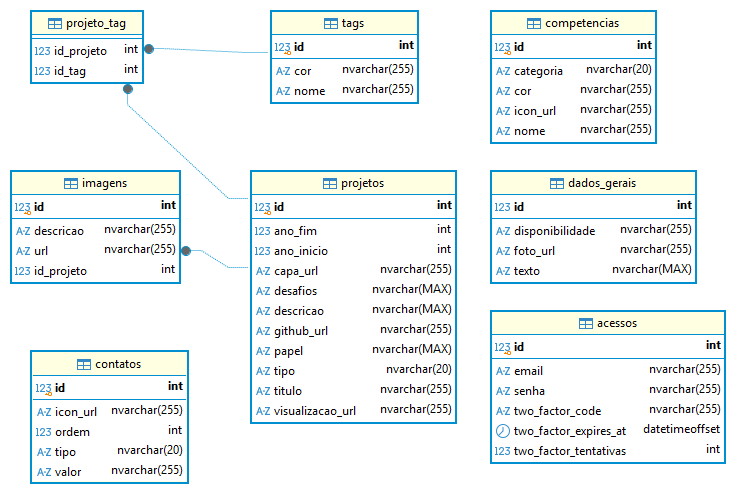
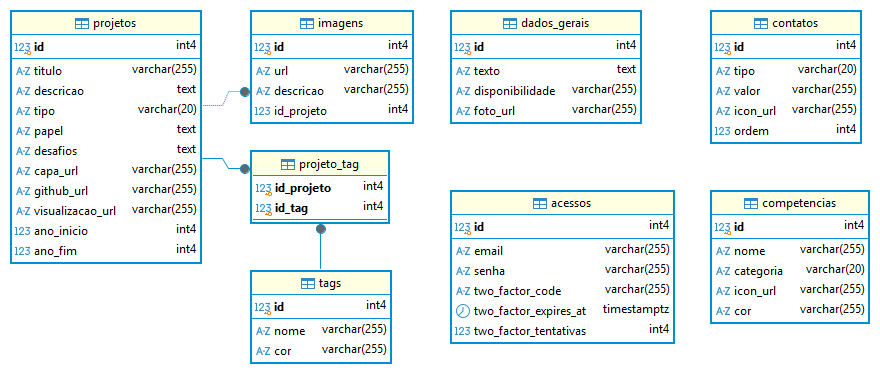
refactor(db): troca SQL Server por PostgreSQL 17
- V1 reescrita em PostgreSQL (antes do 1º deploy; nenhum banco de produção existia)
- tag única sem diferenciar maiúsculas via índice único em lower(nome)
- driver, Flyway e Testcontainers do PostgreSQL; compose com postgres:17 na porta 5433
- entidades com columnDefinition TEXT; READMEs e decisões de projeto atualizados

diff --git a/portfolio-api/src/test/java/dev/gabriel/portfolio_api/TestcontainersConfig.java b/portfolio-api/src/test/java/dev/gabriel/portfolio_api/TestcontainersConfig.java
@@ -3,11 +3,11 @@ package dev.gabriel.portfolio_api;
 import org.springframework.boot.test.context.TestConfiguration;
 import org.springframework.boot.testcontainers.service.connection.ServiceConnection;
 import org.springframework.context.annotation.Bean;
-import org.testcontainers.mssqlserver.MSSQLServerContainer;
+import org.testcontainers.postgresql.PostgreSQLContainer;
 import org.testcontainers.utility.DockerImageName;
 
 /**
- * Sobe um SQL Server descartavel no Docker para os testes.
+ * Sobe um PostgreSQL descartavel no Docker para os testes.
  *
  * - O container e um bean: o Spring o inicia antes da aplicacao e o para no fim.
  * - @ServiceConnection faz o Spring Boot apontar o datasource (url, usuario, senha)
@@ -19,8 +19,7 @@ public class TestcontainersConfig {
 
     @Bean
     @ServiceConnection
-    MSSQLServerContainer sqlServerContainer() {
-        return new MSSQLServerContainer(DockerImageName.parse("mcr.microsoft.com/mssql/server:2022-latest"))
-                .acceptLicense(); // a imagem da Microsoft exige aceitar a licenca (EULA)
+    PostgreSQLContainer postgresContainer() {
+        return new PostgreSQLContainer(DockerImageName.parse("postgres:17"));
     }
 }

diff --git a/portfolio-api/src/test/java/dev/gabriel/portfolio_api/IntegracaoTest.java b/portfolio-api/src/test/java/dev/gabriel/portfolio_api/IntegracaoTest.java
@@ -13,7 +13,7 @@ import dev.gabriel.portfolio_api.services.JwtService;
 
 /**
  * Base dos testes de integracao: aplicacao completa (controllers, services, seguranca, JPA)
- * contra um SQL Server real no Docker.
+ * contra um PostgreSQL real no Docker.
  *
  * - @SpringBootTest: sobe o contexto inteiro do Spring, como em producao.
  * - @AutoConfigureMockMvc: cria o MockMvc, que simula requisicoes HTTP sem abrir porta de rede.
@@ -30,10 +30,7 @@ import dev.gabriel.portfolio_api.services.JwtService;
         "JWT_SECRET=Y2hhdmUtZGUtdGVzdGUtY29tLTMyLWJ5dGVzLW9rISE=",
         // Origens do CORS: o padrao de desenvolvimento + um dominio "de producao" ficticio
         "CORS_ORIGINS=http://localhost:[*]," + IntegracaoTest.ORIGEM_PRODUCAO,
-        "spring.jpa.show-sql=false",
-        // Enquanto o container inicializa, o driver loga dezenas de "Prelogin error" (tentativas de conexao).
-        // Sao esperados e inofensivos; so poluem a saida.
-        "logging.level.com.microsoft.sqlserver.jdbc.internals.SQLServerConnection=ERROR"
+        "spring.jpa.show-sql=false"
 })
 @AutoConfigureMockMvc
 @Import(TestcontainersConfig.class)

diff --git a/portfolio-api/src/test/java/dev/gabriel/portfolio_api/controllers/ProjetoControllerTest.java b/portfolio-api/src/test/java/dev/gabriel/portfolio_api/controllers/ProjetoControllerTest.java
@@ -27,7 +27,7 @@ import dev.gabriel.portfolio_api.repositories.TagRepository;
 
 /**
  * Testes de integracao de /api/projetos: requisicao HTTP simulada -> seguranca -> controller
- * -> service -> SQL Server (container) -> resposta JSON.
+ * -> service -> PostgreSQL (container) -> resposta JSON.
  */
 class ProjetoControllerTest extends IntegracaoTest {
 
@@ -117,7 +117,7 @@ class ProjetoControllerTest extends IntegracaoTest {
                 .andExpect(status().isCreated())
                 .andExpect(header().string("Location", containsString(URL + "/")))
                 .andExpect(jsonPath("$.titulo").value("BeesCaatinga"))
-                .andExpect(jsonPath("$.descricao").value("Gestão de apiários da Caatinga")) // acentos/NVARCHAR
+                .andExpect(jsonPath("$.descricao").value("Gestão de apiários da Caatinga")) // acentos (UTF-8)
                 .andExpect(jsonPath("$.periodo").value("2023 – 2024"))
                 .andExpect(jsonPath("$.tags", hasSize(2)))
                 .andExpect(jsonPath("$.imagens", hasSize(1)))

diff --git a/portfolio-api/src/main/java/dev/gabriel/portfolio_api/entities/DadosGerais.java b/portfolio-api/src/main/java/dev/gabriel/portfolio_api/entities/DadosGerais.java
@@ -11,7 +11,7 @@ import jakarta.persistence.Table;
  *
  * Por que o id e fixo e nao IDENTITY (autoincremento)?
  * - Com IDENTITY, apagar e recriar o registro geraria ID 2, 3...
- * - O SQL Server pode "pular" valores de IDENTITY apos um reinicio.
+ * - O banco pode "pular" valores de IDENTITY (ex.: insercoes que falham consomem o numero).
  * Com o id sempre = 1, atribuido pelo codigo, e a check constraint abaixo,
  * o proprio banco recusa uma segunda linha.
  */
@@ -25,7 +25,7 @@ public class DadosGerais {
     @Id // sem @GeneratedValue: o valor e sempre ID_UNICO (e nao ha setter)
     private int id = ID_UNICO;
 
-    @Column(nullable = false, columnDefinition = "NVARCHAR(MAX)")
+    @Column(nullable = false, columnDefinition = "TEXT")
     private String texto; // texto de apresentacao ("Ola, meu nome e Gabriel...")
 
     private String disponibilidade; // texto do selo, ex.: "Disponivel para contratacao"; vazio = sem selo

diff --git a/portfolio-api/src/test/java/dev/gabriel/portfolio_api/PerfilProducaoTest.java b/portfolio-api/src/test/java/dev/gabriel/portfolio_api/PerfilProducaoTest.java
@@ -30,7 +30,7 @@ import dev.gabriel.portfolio_api.services.JwtService;
  * Testcontainers (@ServiceConnection tem prioridade sobre DB_URL).
  */
 @SpringBootTest(properties = {
-        "DB_URL=jdbc:sqlserver://ignorado-pelo-testcontainers",
+        "DB_URL=jdbc:postgresql://ignorado-pelo-testcontainers/portfolio",
         "DB_USER=ignorado",
         "DB_PASSWORD=ignorado",
         "MAIL_HOST=smtp.exemplo.com",
@@ -40,8 +40,7 @@ import dev.gabriel.portfolio_api.services.JwtService;
         "CORS_ORIGINS=" + PerfilProducaoTest.ORIGEM_DO_FRONT,
         "ADMIN_EMAIL=gabriel@exemplo.com",
         "ADMIN_PASSWORD=senha-de-teste",
-        "JWT_SECRET=Y2hhdmUtZGUtdGVzdGUtY29tLTMyLWJ5dGVzLW9rISE=",
-        "logging.level.com.microsoft.sqlserver.jdbc.internals.SQLServerConnection=ERROR"
+        "JWT_SECRET=Y2hhdmUtZGUtdGVzdGUtY29tLTMyLWJ5dGVzLW9rISE="
 })
 @ActiveProfiles("prod")
 @AutoConfigureMockMvc

diff --git a/portfolio-api/src/main/java/dev/gabriel/portfolio_api/entities/Projeto.java b/portfolio-api/src/main/java/dev/gabriel/portfolio_api/entities/Projeto.java
@@ -27,7 +27,7 @@ public class Projeto {
 	@Column(nullable = false)
 	private String titulo;
 
-	@Column(nullable = false, columnDefinition = "NVARCHAR(MAX)")
+	@Column(nullable = false, columnDefinition = "TEXT")
 	private String descricao;
 
 	// Carrossel em que o projeto aparece (PROFISSIONAL ou ACADEMICO)
@@ -36,10 +36,10 @@ public class Projeto {
 	private TipoProjeto tipo;
 
 	// Para projetos com codigo privado (empresa): descreve sua atuacao no lugar do link do GitHub
-	@Column(columnDefinition = "NVARCHAR(MAX)")
+	@Column(columnDefinition = "TEXT")
 	private String papel;
 
-	@Column(columnDefinition = "NVARCHAR(MAX)")
+	@Column(columnDefinition = "TEXT")
 	private String desafios;
 
 	@Column(name = "capa_url")

diff --git a/portfolio-api/src/main/java/dev/gabriel/portfolio_api/repositories/TagRepository.java b/portfolio-api/src/main/java/dev/gabriel/portfolio_api/repositories/TagRepository.java
@@ -12,8 +12,8 @@ public interface TagRepository extends JpaRepository<Tag, Integer> {
 
     List<Tag> findAllByOrderByNomeAsc();
 
-    // IgnoreCase: "java" conta como duplicado de "Java", igual a restricao UNIQUE do SQL Server
-    // (a collation padrao do SQL Server compara textos sem diferenciar maiusculas/minusculas)
+    // IgnoreCase: "java" conta como duplicado de "Java", igual ao indice unico em lower(nome) do banco.
+    // O Spring Data gera "WHERE upper(nome) = upper(?)".
     boolean existsByNomeIgnoreCase(String nome);
 
     // Versao para o PUT: ignora a propria tag (renomear "java" para "Java" e permitido)

diff --git a/portfolio-api/src/main/java/dev/gabriel/portfolio_api/entities/Tag.java b/portfolio-api/src/main/java/dev/gabriel/portfolio_api/entities/Tag.java
@@ -19,7 +19,8 @@ public class Tag {
     @Id 
     @GeneratedValue(strategy = GenerationType.IDENTITY)
     private int id;
-    @Column (nullable = false, unique = true)
+    // Unico sem diferenciar maiusculas: garantido no banco pelo indice uk_tags_nome em lower(nome) (V1)
+    @Column (nullable = false)
     private String nome;
     @Column (nullable = false)
     private String cor;

diff --git a/portfolio-api/src/test/java/dev/gabriel/portfolio_api/controllers/TagControllerTest.java b/portfolio-api/src/test/java/dev/gabriel/portfolio_api/controllers/TagControllerTest.java
@@ -163,7 +163,7 @@ class TagControllerTest extends IntegracaoTest {
     }
 
     @Test
-    @DisplayName("O proprio SQL Server trata 'JAVA' e 'Java' como iguais na restricao UNIQUE")
+    @DisplayName("O proprio banco trata 'JAVA' e 'Java' como iguais (indice unico em lower(nome))")
     void bancoIgnoraMaiusculas() {
         tagRepository.saveAndFlush(new Tag(0, "Java", "#E76F00"));
 

diff --git a/portfolio-api/README.md b/portfolio-api/README.md
@@ -14,7 +14,7 @@ O site público (Flutter Web) só **lê** os dados. O cadastro é feito por um p
 |---|---|
 | Linguagem / framework | Java 17, Spring Boot 4.1 (Web MVC, Data JPA, Security, Validation, Mail) |
 | Autenticação | Senha (BCrypt) + código por e-mail → JWT (OAuth2 Resource Server) |
-| Banco de dados | SQL Server 2022 (via Docker) |
+| Banco de dados | PostgreSQL 17 (via Docker) |
 | Documentação | OpenAPI 3 / Swagger UI (springdoc) |
 | Testes | JUnit 5, MockMvc, Testcontainers |
 | Planejado | Redis (cache), RabbitMQ (eventos), deploy no GCP Cloud Run |
@@ -37,7 +37,7 @@ cp .env.example .env
 
 | Variável | Para quê |
 |---|---|
-| `DB_PASSWORD` | Senha do usuário `sa` do SQL Server. Exige 8+ caracteres com maiúscula, minúscula, número e símbolo. Evite `$`. |
+| `DB_PASSWORD` | Senha do PostgreSQL do Docker Compose (usuário e banco `portfolio`). Evite `$`. O Postgres só lê essa senha quando o volume é criado; para trocá-la depois, recrie o banco com `docker compose down -v`. |
 | `ADMIN_PASSWORD` | Senha da conta do painel (veja [Autenticação](#autenticação)). |
 | `JWT_SECRET` | Chave que assina os tokens de acesso: 32 bytes aleatórios em Base64. O `.env.example` traz o comando para gerar. **Quem tiver essa chave consegue forjar tokens.** |
 | `ADMIN_EMAIL` | E-mail da conta do painel e destino do código de acesso. Em desenvolvimento, qualquer endereço serve: o Mailpit captura tudo. |
@@ -54,7 +54,7 @@ docker compose up -d
 ```
 
 Esse comando sobe:
-- o **SQL Server** na porta `1433`, criando o banco `portfolio` na primeira execução. Os dados ficam num volume Docker e sobrevivem quando o container é desligado;
+- o **PostgreSQL** na porta `5433` do seu computador (a `5432` costuma estar ocupada por um Postgres instalado no sistema), com o banco e o usuário `portfolio` criados na primeira execução. Os dados ficam num volume Docker e sobrevivem quando o container é desligado;
 - o **Mailpit**, um servidor de e-mail falso para desenvolvimento. Ele recebe os e-mails que a API envia (como o código de login) sem entregá-los a ninguém, e os mostra em **http://localhost:8025**.
 
 ```bash
@@ -196,7 +196,7 @@ O front-end (Flutter Web) fica em outro domínio, e o navegador só entrega a el
 .\mvnw test       # Windows (PowerShell)
 ```
 
-> **O Docker Desktop precisa estar aberto.** Os testes não usam o banco de desenvolvimento: o **Testcontainers** sobe um SQL Server descartável só para eles e o remove no final. Por isso não é preciso ter `.env`, banco ou API rodando, e os seus dados locais não são afetados.
+> **O Docker Desktop precisa estar aberto.** Os testes não usam o banco de desenvolvimento: o **Testcontainers** sobe um PostgreSQL descartável só para eles e o remove no final. Por isso não é preciso ter `.env`, banco ou API rodando, e os seus dados locais não são afetados.
 
 Os testes são de **integração**. Cada um simula uma requisição HTTP com o **MockMvc**, que passa pela segurança, pela validação, pelo controller, pelo service e pelo banco real, e confere status, cabeçalhos e JSON da resposta. Eles cobrem:
 
@@ -217,7 +217,7 @@ Para rodar só uma classe:
 
 O workflow [`.github/workflows/api-ci.yml`](../.github/workflows/api-ci.yml) roda `./mvnw verify` (compila, roda todos os testes e gera o `.jar`) a cada push na `main` e a cada pull request que mexa em `portfolio-api/`. Também dá para disparar à mão pela aba **Actions**.
 
-- O runner `ubuntu-latest` já tem Docker, então o Testcontainers sobe o SQL Server igual na sua máquina. **Nenhum segredo é necessário**: as credenciais de teste ficam no código de teste.
+- O runner `ubuntu-latest` já tem Docker, então o Testcontainers sobe o PostgreSQL igual na sua máquina. **Nenhum segredo é necessário**: as credenciais de teste ficam no código de teste.
 - As dependências do Maven ficam em cache entre as execuções (`setup-java` com `cache: maven`), e o cache só é refeito quando o `pom.xml` muda.
 - Se um teste falhar, os relatórios do Surefire ficam disponíveis para download na execução (artefato `relatorios-surefire`, por 7 dias).
 - Um novo push no mesmo branch cancela a execução anterior.
@@ -241,13 +241,13 @@ src/main/resources/
 
 src/test/java/dev/gabriel/portfolio_api/
 ├── IntegracaoTest.java        # Base dos testes: contexto + MockMvc + container
-├── TestcontainersConfig.java  # SQL Server descartável para os testes
+├── TestcontainersConfig.java  # PostgreSQL descartável para os testes
 ├── controllers/               # Um teste de integração por recurso (+ segurança JWT e CORS)
 ├── entities/                  # Testes unitários de regras das entidades
 └── services/                  # Testes unitários de services
 ```
 
-**Fluxo de uma requisição:** `Controller` (HTTP + `@Valid`) → `Service` (regras + `@Transactional`) → `Repository` (JPA) → SQL Server. As entidades nunca saem do service: a API recebe e devolve DTOs.
+**Fluxo de uma requisição:** `Controller` (HTTP + `@Valid`) → `Service` (regras + `@Transactional`) → `Repository` (JPA) → PostgreSQL. As entidades nunca saem do service: a API recebe e devolve DTOs.
 
 ## Banco de dados e migrações
 
@@ -269,7 +269,7 @@ Para recomeçar o banco de desenvolvimento do zero: `docker compose down -v` e `
 Em produção, a API roda com o perfil **`prod`** (`SPRING_PROFILES_ACTIVE=prod`), definido em `application-prod.properties`. Ele muda o seguinte:
 
 - **Swagger desligado:** `/swagger-ui.html` e `/v3/api-docs` respondem `404`, e o mapa das rotas do painel não fica público.
-- **Sem valores padrão de desenvolvimento:** nada de `localhost`, Mailpit ou `trustServerCertificate`. Se faltar uma variável obrigatória, a API **não sobe**. A exceção é o SMTP: sem ele, a API sobe, mas o login responde `503`.
+- **Sem valores padrão de desenvolvimento:** nada de `localhost` ou Mailpit. Se faltar uma variável obrigatória, a API **não sobe**. A exceção é o SMTP: sem ele, a API sobe, mas o login responde `503`.
 - **E-mail real:** SMTP com login e STARTTLS (porta 587), com timeouts para o login não travar se o servidor de e-mail não responder.
 - **Atrás de proxy HTTPS** (`server.forward-headers-strategy=framework`): o Cloud Run recebe em HTTPS e repassa para a API em HTTP. Com isso, a API lê os cabeçalhos `X-Forwarded-*` e gera links corretos, como o `Location` do `201` com `https://` e o domínio público.
 - **Sem SQL no log.**
@@ -279,7 +279,7 @@ Variáveis de ambiente do perfil `prod`, além de `ADMIN_EMAIL`, `ADMIN_PASSWORD
 | Variável | Exemplo |
 |---|---|
 | `SPRING_PROFILES_ACTIVE` | `prod` |
-| `DB_URL` | `jdbc:sqlserver://<host>:1433;databaseName=portfolio;encrypt=true` |
+| `DB_URL` | `jdbc:postgresql://<host>/portfolio?sslmode=require` (provedores gerenciados exigem TLS) |
 | `DB_USER` / `DB_PASSWORD` | Usuário e senha do banco de produção |
 | `MAIL_HOST` / `MAIL_PORT` | `smtp.gmail.com` / `587` (porta opcional; padrão `587`) |
 | `MAIL_USERNAME` / `MAIL_PASSWORD` | Conta SMTP (no Gmail, uma **senha de app**, não a senha da conta) |
@@ -306,8 +306,8 @@ A imagem já vem com `SPRING_PROFILES_ACTIVE=prod`, roda com um usuário **sem p
 docker build -t portfolio-api .
 
 docker run --rm -p 8080:8080 --env-file .env `
-  -e DB_URL="jdbc:sqlserver://host.docker.internal:1433;databaseName=portfolio;encrypt=true;trustServerCertificate=true" `
-  -e DB_USER=sa `
+  -e DB_URL="jdbc:postgresql://host.docker.internal:5433/portfolio" `
+  -e DB_USER=portfolio `
   -e MAIL_HOST=host.docker.internal -e MAIL_PORT=1025 -e MAIL_USERNAME=teste -e MAIL_PASSWORD=teste `
   -e MAIL_FROM=teste@exemplo.com -e CORS_ORIGINS=https://exemplo.github.io `
   portfolio-api
@@ -325,12 +325,14 @@ Escolhas feitas de propósito, com o motivo. O que está fora do escopo agora te
 | **A API recebe e devolve DTOs, nunca entidades** | O cliente não escolhe `id` nem campos internos, a validação fica no contrato de entrada e o JSON público não muda quando o banco muda. |
 | **Categorias e tipos como enums fixos** | Evitam grupos duplicados por erro de digitação (`Linguagem` vs `Linguagens`). O banco reforça com uma `CHECK` constraint e a API responde `400` listando os valores aceitos. |
 | **Duplicados: validados no service e garantidos no banco** | O service dá uma mensagem clara (`409`); a restrição `UNIQUE` no banco cobre o que escapar, como duas requisições simultâneas. |
-| **Dados Gerais com ID fixo + `CHECK (id = 1)`** | Com autoincremento, "sempre o ID 1" não é garantido (registro recriado ou saltos de `IDENTITY` no SQL Server). Com ID fixo, o próprio banco impede uma segunda linha. |
+| **Dados Gerais com ID fixo + `CHECK (id = 1)`** | Com autoincremento, "sempre o ID 1" não é garantido (registro recriado ou saltos de `IDENTITY`, já que inserções que falham consomem números). Com ID fixo, o próprio banco impede uma segunda linha. |
 | **2FA sempre obrigatório** | Há uma única conta. Um caminho único de login é mais simples de testar e não deixa a opção de, por engano, proteger o painel só com a senha. |
 | **JWT validado pelo OAuth2 Resource Server do Spring, não por um filtro próprio** | O filtro padrão já confere assinatura, expiração e emissor e é amplamente testado. Filtros de autenticação escritos à mão são uma fonte comum de falhas de segurança. |
 | **Sem refresh token nem revogação** | Um único administrador, com token de 2 horas: refazer o login é aceitável. Trocar o `JWT_SECRET` serve como "botão de emergência". |
 | **Migrações com Flyway; Hibernate só valida** | O `ddl-auto=update` não altera colunas existentes e deixou o banco de desenvolvimento diferente do código (colunas obrigatórias aceitando `NULL`, `projeto_tag` sem chave primária). Com scripts versionados, o esquema é revisável no Git e idêntico em todos os ambientes. |
-| **Testes contra um SQL Server real (Testcontainers), não H2** | Um banco em memória diferente esconderia comportamentos do SQL Server, como `NVARCHAR(MAX)`, comparação sem diferenciar maiúsculas e as constraints. |
+| **Testes contra um PostgreSQL real (Testcontainers), não H2** | Um banco em memória diferente esconderia comportamentos do PostgreSQL, como o índice único em `lower(nome)`, os tipos `TEXT`/`TIMESTAMPTZ` e as constraints. |
+| **PostgreSQL no lugar do SQL Server** | Trocado antes do primeiro deploy: é o banco relacional mais comum em projetos novos, tem planos gratuitos gerenciados (o SQL Server gerenciado custa a partir de dezenas de dólares por mês) e padroniza com outros projetos. Como nenhum banco de produção existia, a `V1` foi reescrita em vez de migrada. |
+| **Tag única sem diferenciar maiúsculas: índice em `lower(nome)`** | O PostgreSQL compara texto diferenciando maiúsculas. Um `UNIQUE INDEX` sobre a expressão `lower(nome)` faz o banco recusar "JAVA" quando já existe "Java", sem extensões (como `citext`). O service também confere (`IgnoreCase`) para responder `409` com uma mensagem clara. |
 
 ## Roadmap
 

diff --git a/README.md b/README.md
@@ -18,7 +18,7 @@ flowchart LR
     A["Administrador"] -->|"login + 2FA"| P["Painel admin<br/>(planejado)"]
     F -->|"HTTP/JSON"| API["portfolio-api<br/>Spring Boot"]
     P -->|"HTTP/JSON + JWT"| API
-    API --> DB[("SQL Server")]
+    API --> DB[("PostgreSQL")]
     API -->|"código de acesso"| M["E-mail (SMTP)"]
 ```
 
@@ -46,11 +46,11 @@ Diagrama gerado pelo DBeaver a partir do banco real. `projeto_tag` liga projetos
 | Parte | Tecnologias |
 |---|---|
 | Back-end | Java 17, Spring Boot 4 (Web MVC, Data JPA, Security, Validation), OAuth2 Resource Server (JWT), Spring Mail |
-| Banco de dados | SQL Server 2022 (Docker) |
-| Qualidade | JUnit 5, MockMvc, Testcontainers (testes de integração contra um SQL Server real) |
+| Banco de dados | PostgreSQL 17 (Docker) |
+| Qualidade | JUnit 5, MockMvc, Testcontainers (testes de integração contra um PostgreSQL real) |
 | Documentação da API | OpenAPI 3 / Swagger UI |
 | Front-end | Flutter Web |
-| Ambiente local | Docker Compose (SQL Server + Mailpit para capturar os e-mails) |
+| Ambiente local | Docker Compose (PostgreSQL + Mailpit para capturar os e-mails) |
 
 ## Como rodar
 
@@ -59,7 +59,7 @@ Hoje, a parte executável é a API. O passo a passo completo está no [README da
 ```bash
 cd portfolio-api
 cp .env.example .env      # defina as senhas
-docker compose up -d      # SQL Server + Mailpit
+docker compose up -d      # PostgreSQL + Mailpit
 ./mvnw spring-boot:run    # API em http://localhost:8080 (Swagger em /swagger-ui.html)
 ```
 
